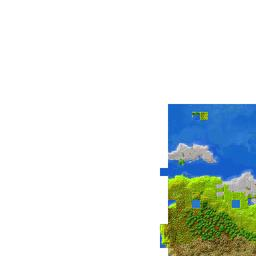
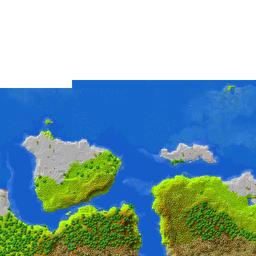
update

diff --git a/unmined.map.regions.js b/unmined.map.regions.js
@@ -1,6 +1,6 @@
 var UnminedRegions = [
 { x: 0, z: 0, m: new Uint32Array([1574407,3,1,1,1,1,0,0,0,0,0,0,0,0,0,0,0,0,0,0,0,0,0,0,0,0,0,0,0,0,0,0,0,0,0,0,0,0,0,0,0,0,0,0,0,0,0,0,0,0,0,0,0,0,0,0,0,0,0,0,0,0,0,0,0,0,0,0,0,0,0,0,0,0,0,0,0,0,0,0,0,0,0,0,0,0,0,0,0,0,0,0,0,0,0,0,0,0,0,0,0,0,0,0,0,0,0,0,0,0,0,0,0,0,0,0,0,0,0,0,0,0,0,0,0,0,0,0,0,0,0,0,0,0,0,0,0,0,0,0,0,0,0,0,0,0,0,0,0,0,0,0,0,0,0,0,0,0,0,0,0,0,0,0,0,0,0,0,0,0,0,0,0,0,0,0,0,0,0,0,0,0,0,0,0,0,0,0,0,0,0,0,0,0,0,0,0,0,0,0,0,0,0,0,0,0,0,0,0,0,0,0,0,0,0,0,0,0,0,0,0,0,0,0,0,0,0,0,0,0,0,0,0,0,0,0,0,0,0,0,0,0,0,0,0,0,0,0,0,0,0,0,0,0,0,0]) },
 { x: 0, z: -1, m: new Uint32Array([0,0,0,0,0,0,0,0,0,0,0,0,0,0,0,0,0,0,0,0,0,0,0,0,0,0,0,0,0,0,7,1574407,0,0,0,0,0,0,0,0,0,0,0,0,0,0,0,0,0,0,0,0,0,0,0,0,0,0,0,0,0,0,0,0,0,0,0,0,0,0,0,0,0,0,0,0,0,0,0,0,0,0,0,0,0,0,0,0,0,0,0,0,0,0,0,0,0,0,0,0,0,0,0,0,0,0,0,0,0,0,0,0,0,0,0,0,0,0,0,0,0,0,0,0,0,0,0,0,0,0,0,0,0,0,0,0,0,0,0,0,0,0,0,0,0,0,0,0,0,0,0,0,0,0,0,0,0,0,0,0,0,0,0,0,0,0,0,0,0,0,0,0,0,0,0,0,0,0,0,0,0,0,0,0,0,0,0,0,0,0,0,0,0,0,0,0,0,0,0,0,0,0,0,0,0,0,0,0,0,0,0,0,0,0,0,0,0,0,0,0,0,0,0,0,0,0,0,0,0,0,0,0,0,0,0,0,0,0,0,0,0,0,0,0,0,0,0,0,0,0,0,0,0,0,0,0]) },
-{ x: -1, z: 0, m: new Uint32Array([3221225472,3221225472,2147483648,3221225472,4026531840,4026531840,4026531840,0,0,0,0,0,0,0,0,0,0,0,0,0,0,0,0,0,0,0,0,0,0,0,0,0,0,0,0,0,0,0,0,0,0,0,0,0,0,0,0,0,0,0,0,0,0,0,0,0,0,0,0,0,0,0,0,0,0,0,0,0,0,0,0,0,0,0,0,0,0,0,0,0,0,0,0,0,0,0,0,0,0,0,0,0,0,0,0,0,0,0,0,0,0,0,0,0,0,0,0,0,0,0,0,0,0,0,0,0,0,0,0,0,0,0,0,0,0,0,0,0,0,0,0,0,0,0,0,0,0,0,0,0,0,0,0,0,0,0,0,0,0,0,0,0,0,0,0,0,0,0,0,0,0,0,0,0,0,0,0,0,0,0,0,0,0,0,0,0,0,0,0,0,0,0,0,0,0,0,0,0,0,0,0,0,0,0,0,0,0,0,0,0,0,0,0,0,0,0,0,0,0,0,0,0,0,0,0,0,0,0,0,0,0,0,0,0,0,0,0,0,0,0,0,0,0,0,0,0,0,0,0,0,0,0,0,0,0,0,0,0,0,0,0,0,0,0,0,0]) },
-{ x: -1, z: -1, m: new Uint32Array([0,0,0,0,0,0,0,0,0,0,0,0,0,0,0,0,0,0,0,0,0,0,0,0,0,0,0,0,0,0,2147483648,3221225472,0,0,0,0,0,0,0,0,0,0,0,0,0,0,0,0,0,0,0,0,0,0,0,0,0,0,0,0,0,0,0,0,0,0,0,0,0,0,0,0,0,0,0,0,0,0,0,0,0,0,0,0,0,0,0,0,0,0,0,0,0,0,0,0,0,0,0,0,0,0,0,0,0,0,0,0,0,0,0,0,0,0,0,0,0,0,0,0,0,0,0,0,0,0,0,0,0,0,0,0,0,0,0,0,0,0,0,0,0,0,0,0,0,0,0,0,0,0,0,0,0,0,0,0,0,0,0,0,0,0,0,0,0,0,0,0,0,0,0,0,0,0,0,0,0,0,0,0,0,0,0,0,0,0,0,0,0,0,0,0,0,0,0,0,0,0,0,0,0,0,0,0,0,0,0,0,0,0,0,0,0,0,0,0,0,0,0,0,0,0,0,0,0,0,0,0,0,0,0,0,0,0,0,0,0,0,0,0,0,0,0,0,0,0,0,0,0,0,0,0,0,0,0,0]) },
+{ x: -1, z: 0, m: new Uint32Array([3758096384,3221225472,2147483648,3221225472,4026531840,4026531840,4026531840,0,0,0,0,0,0,0,0,0,0,0,0,0,0,0,0,0,0,0,0,0,0,0,0,0,0,0,0,0,0,0,0,0,0,0,0,0,0,0,0,0,0,0,0,0,0,0,0,0,0,0,0,0,0,0,0,0,0,0,0,0,0,0,0,0,0,0,0,0,0,0,0,0,0,0,0,0,0,0,0,0,0,0,0,0,0,0,0,0,0,0,0,0,0,0,0,0,0,0,0,0,0,0,0,0,0,0,0,0,0,0,0,0,0,0,0,0,0,0,0,0,0,0,0,0,0,0,0,0,0,0,0,0,0,0,0,0,0,0,0,0,0,0,0,0,0,0,0,0,0,0,0,0,0,0,0,0,0,0,0,0,0,0,0,0,0,0,0,0,0,0,0,0,0,0,0,0,0,0,0,0,0,0,0,0,0,0,0,0,0,0,0,0,0,0,0,0,0,0,0,0,0,0,0,0,0,0,0,0,0,0,0,0,0,0,0,0,0,0,0,0,0,0,0,0,0,0,0,0,0,0,0,0,0,0,0,0,0,0,0,0,0,0,0,0,0,0,0,0]) },
+{ x: -1, z: -1, m: new Uint32Array([0,0,0,0,0,0,0,0,0,0,0,0,0,0,0,0,0,0,0,0,0,0,0,0,0,0,0,0,0,0,2147483648,3758096384,0,0,0,0,0,0,0,0,0,0,0,0,0,0,0,0,0,0,0,0,0,0,0,0,0,0,0,0,0,0,0,0,0,0,0,0,0,0,0,0,0,0,0,0,0,0,0,0,0,0,0,0,0,0,0,0,0,0,0,0,0,0,0,0,0,0,0,0,0,0,0,0,0,0,0,0,0,0,0,0,0,0,0,0,0,0,0,0,0,0,0,0,0,0,0,0,0,0,0,0,0,0,0,0,0,0,0,0,0,0,0,0,0,0,0,0,0,0,0,0,0,0,0,0,0,0,0,0,0,0,0,0,0,0,0,0,0,0,0,0,0,0,0,0,0,0,0,0,0,0,0,0,0,0,0,0,0,0,0,0,0,0,0,0,0,0,0,0,0,0,0,0,0,0,0,0,0,0,0,0,0,0,0,0,0,0,0,0,0,0,0,0,0,0,0,0,0,0,0,0,0,0,0,0,0,0,0,0,0,0,0,0,0,0,0,0,0,0,0,0,0,0,0,0]) },
 ];
